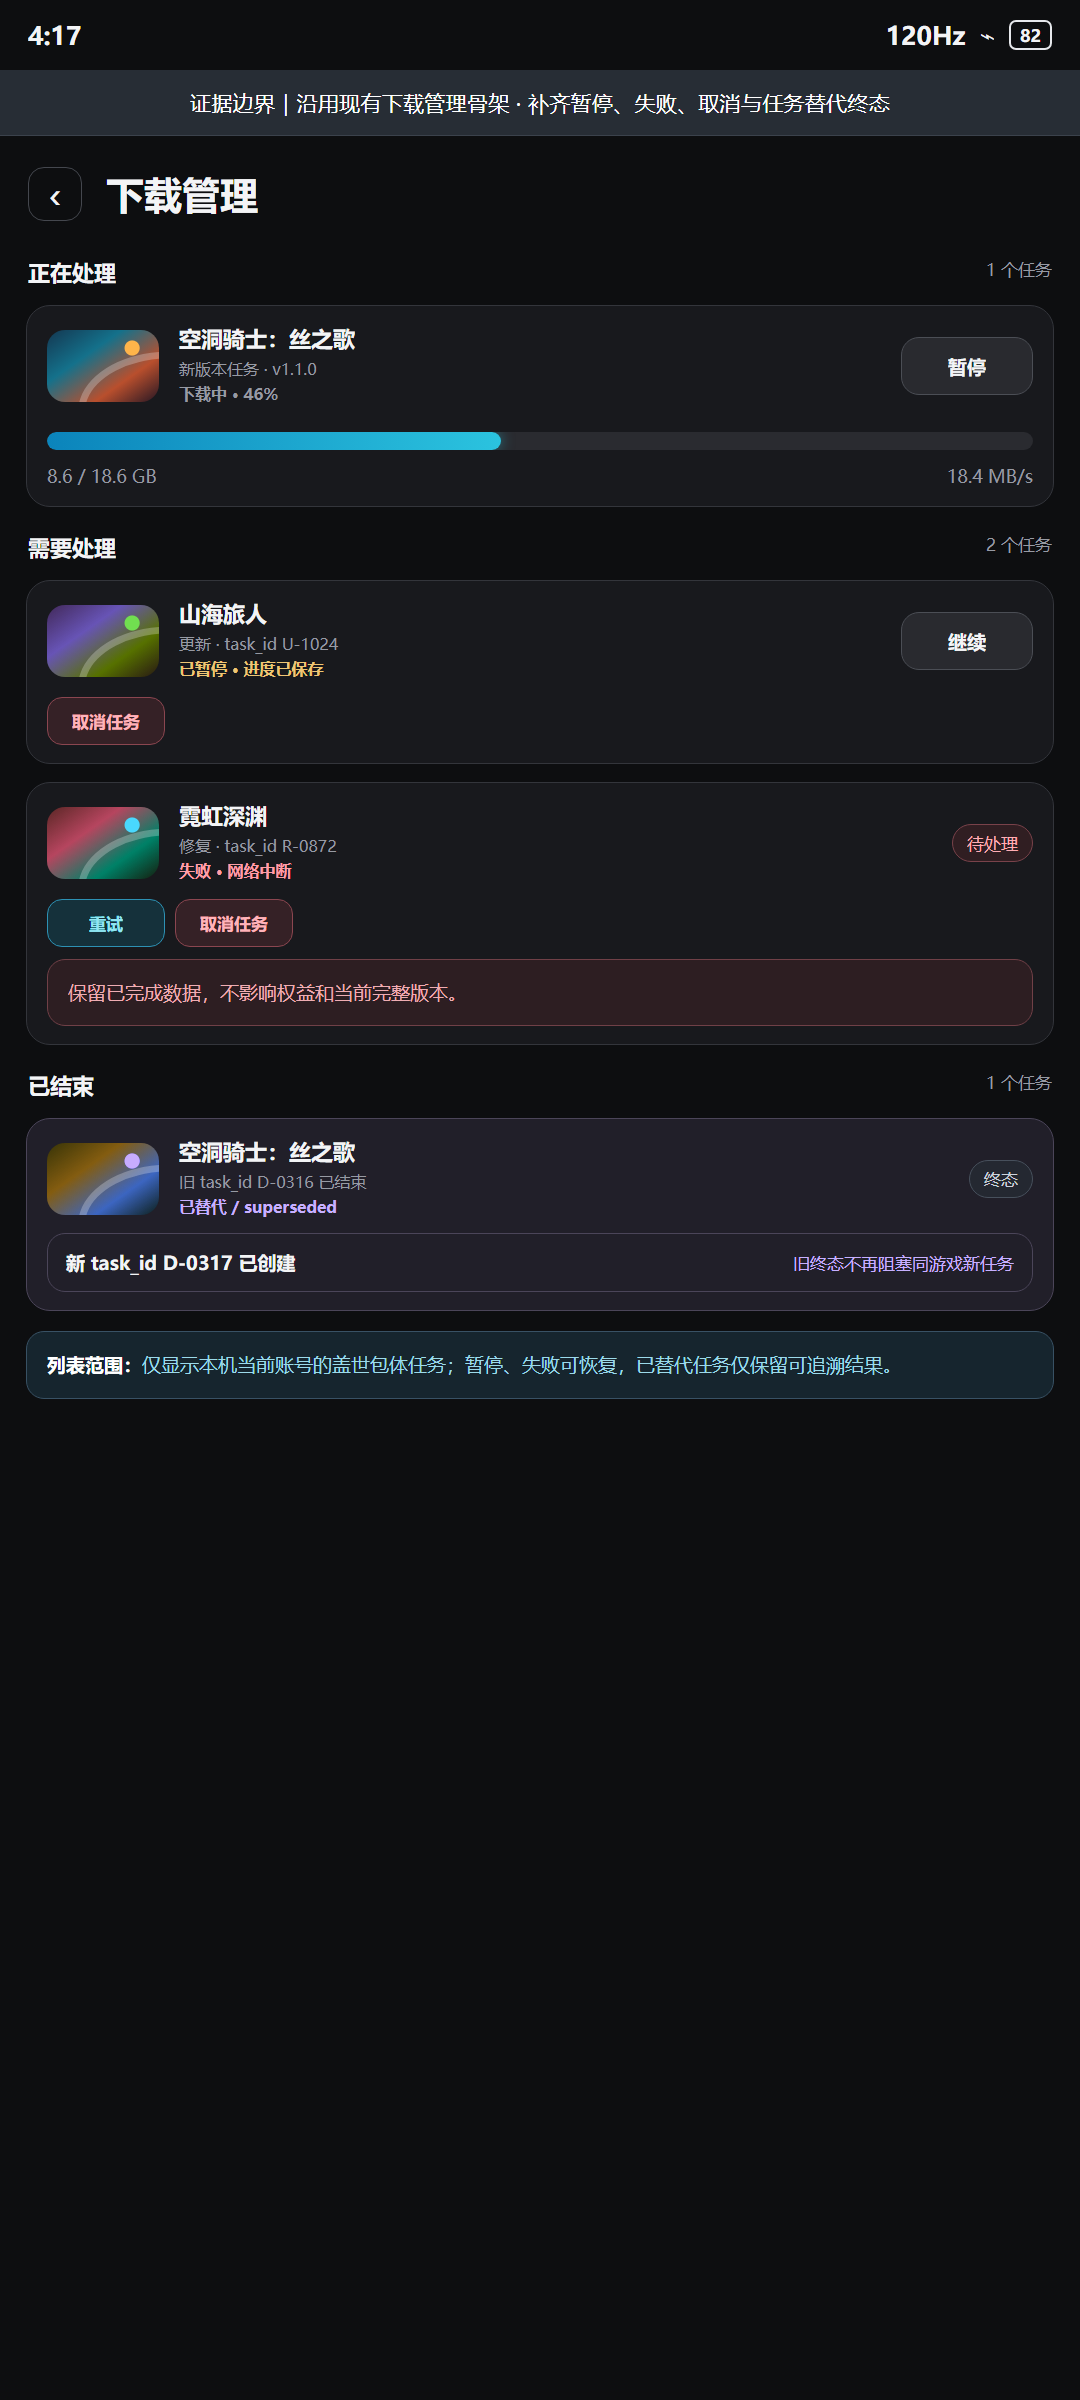
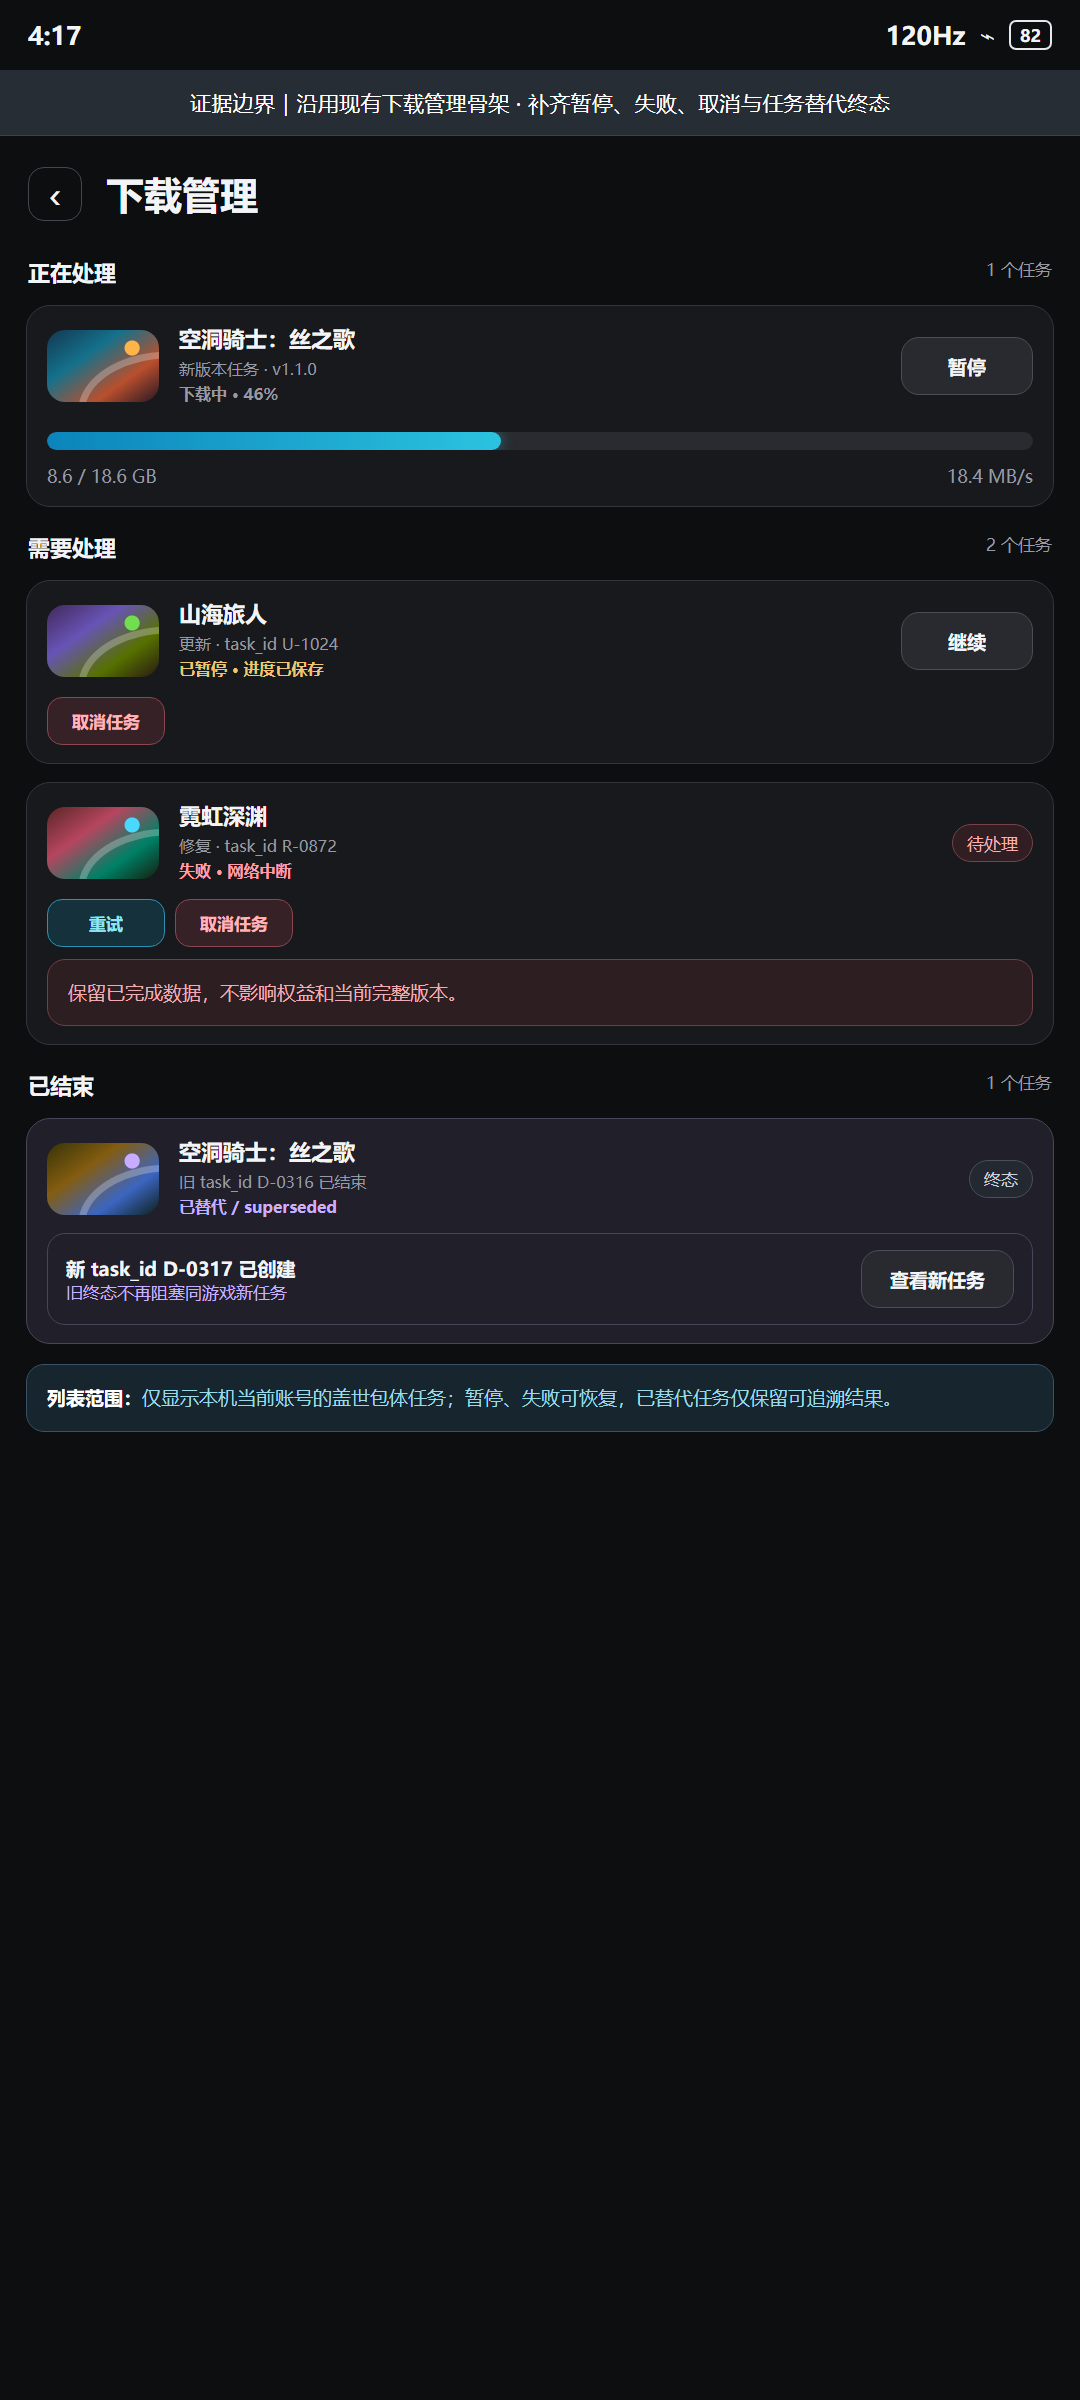
docs: correct task replacement visual flow

Changed region(s): [[0.0, 0.5, 0.9778, 0.5938]]

diff --git a/public/prd/genuine-game-distribution-phase1/06-install-launch-update/validate-local-delivery-visuals.js b/public/prd/genuine-game-distribution-phase1/06-install-launch-update/validate-local-delivery-visuals.js
@@ -33,7 +33,7 @@ function assert(ok,msg){if(!ok)throw new Error(msg)}
       assert(!/CDKEY.*下载|第三方平台激活.*下载/.test(result.text),`${name} mixes CDKEY into direct delivery`);
       assert(!/预载|P2P|多正式分支|自助回滚|云存档/.test(result.text)||name==='game-management',`${name} contains excluded capability as a feature`);
       if(name==='download-manager'){
-        for(const required of ['重试','取消任务','已替代','superseded','不再阻塞'])assert(result.text.includes(required),`download-manager missing ${required}`);
+        for(const required of ['重试','取消任务','已替代','superseded','不再阻塞','查看新任务'])assert(result.text.includes(required),`download-manager missing ${required}`);
       }
       if(name==='install-result'){
         for(const required of ['校验失败','安装失败','重试','取消任务','当前 task_id','暂存文件'])assert(result.text.includes(required),`install-result missing ${required}`);
@@ -43,7 +43,8 @@ function assert(ok,msg){if(!ok)throw new Error(msg)}
         assert(!/更新并启动|稍后处理/.test(result.text),'required-update contains rejected actions');
       }
       if(name==='update-task'){
-        for(const required of ['更新任务','正在下载更新','暂停更新','继续更新','校验中／安装中','不可暂停或取消','重试更新','取消任务','旧版本保护','v1.0.0'])assert(result.text.includes(required),`update-task missing ${required}`);
+        for(const required of ['更新任务','正在下载更新','暂停更新','继续更新','校验中／安装中','不可暂停或取消','重试更新','取消任务','旧版本保护','v1.0.0','先创建新 task_id','原子提交后旧任务才进入已替代'])assert(result.text.includes(required),`update-task missing ${required}`);
+        assert(!result.text.includes('旧任务进入已替代，再创建新 task_id'),'update-task reverses atomic replacement order');
         assert(!result.text.includes('更新前校验')&&!result.text.includes('未创建更新任务'),'update-task still shows blocked precheck state');
       }
       if(name==='launch-recovery'){
